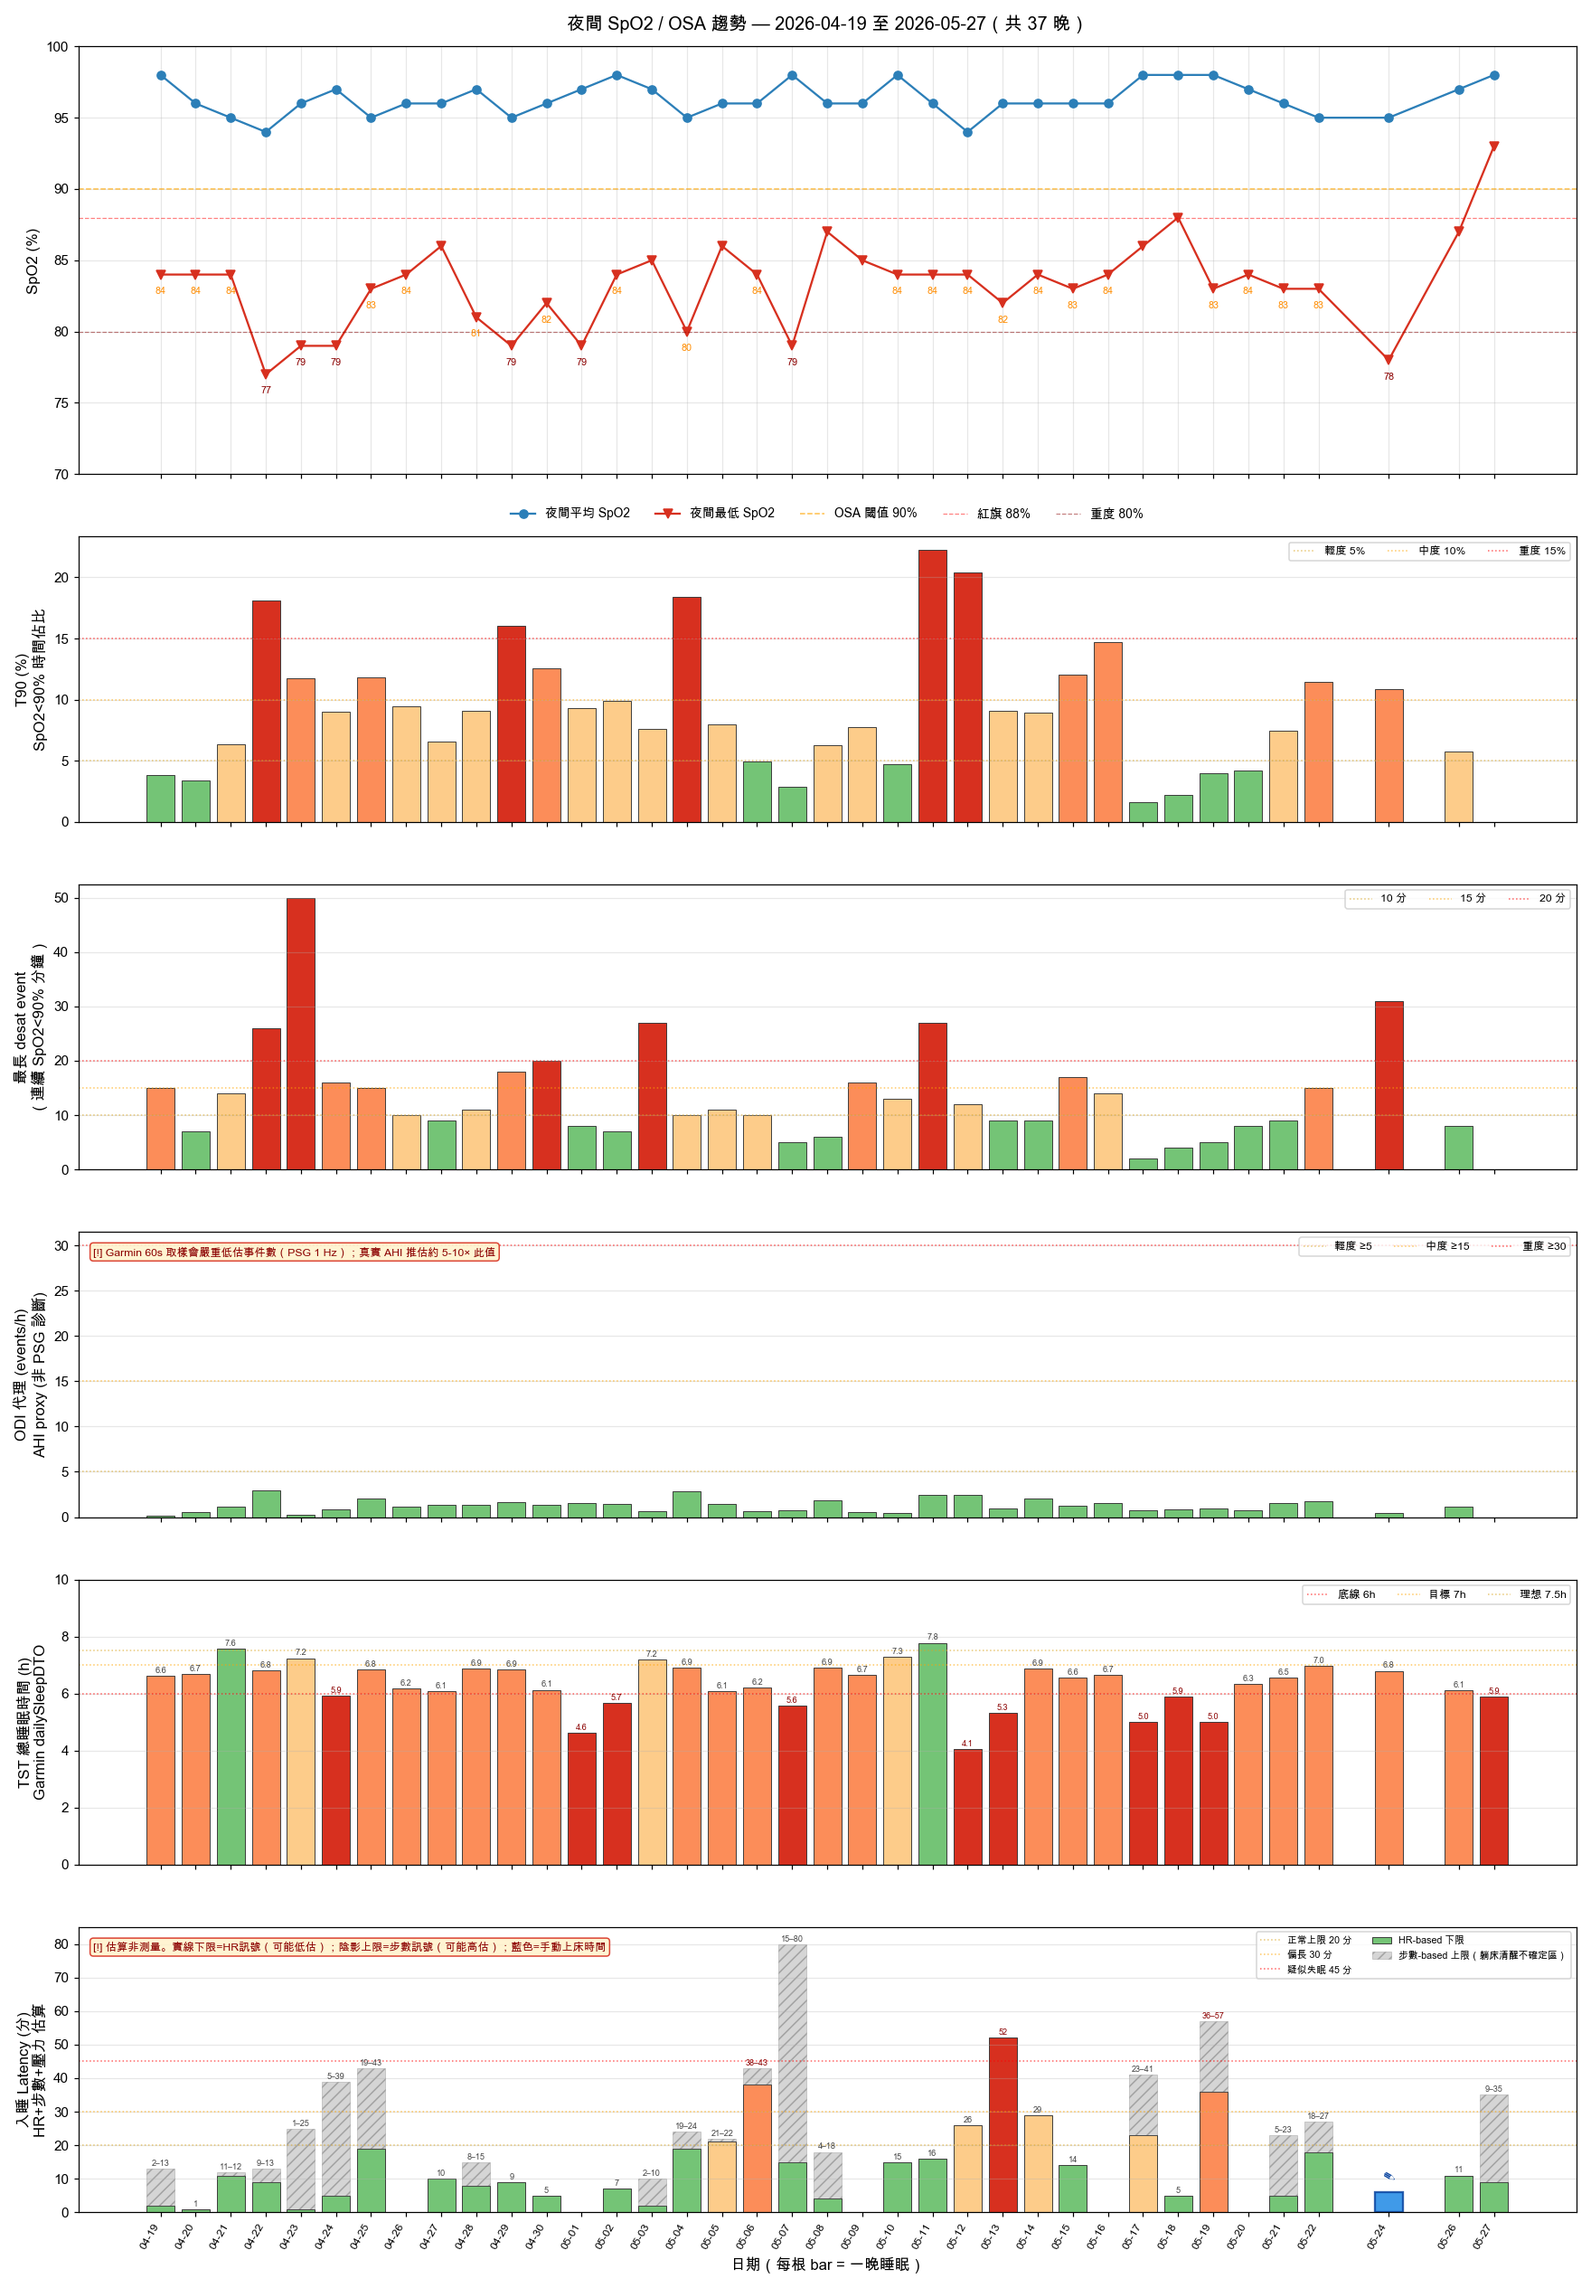
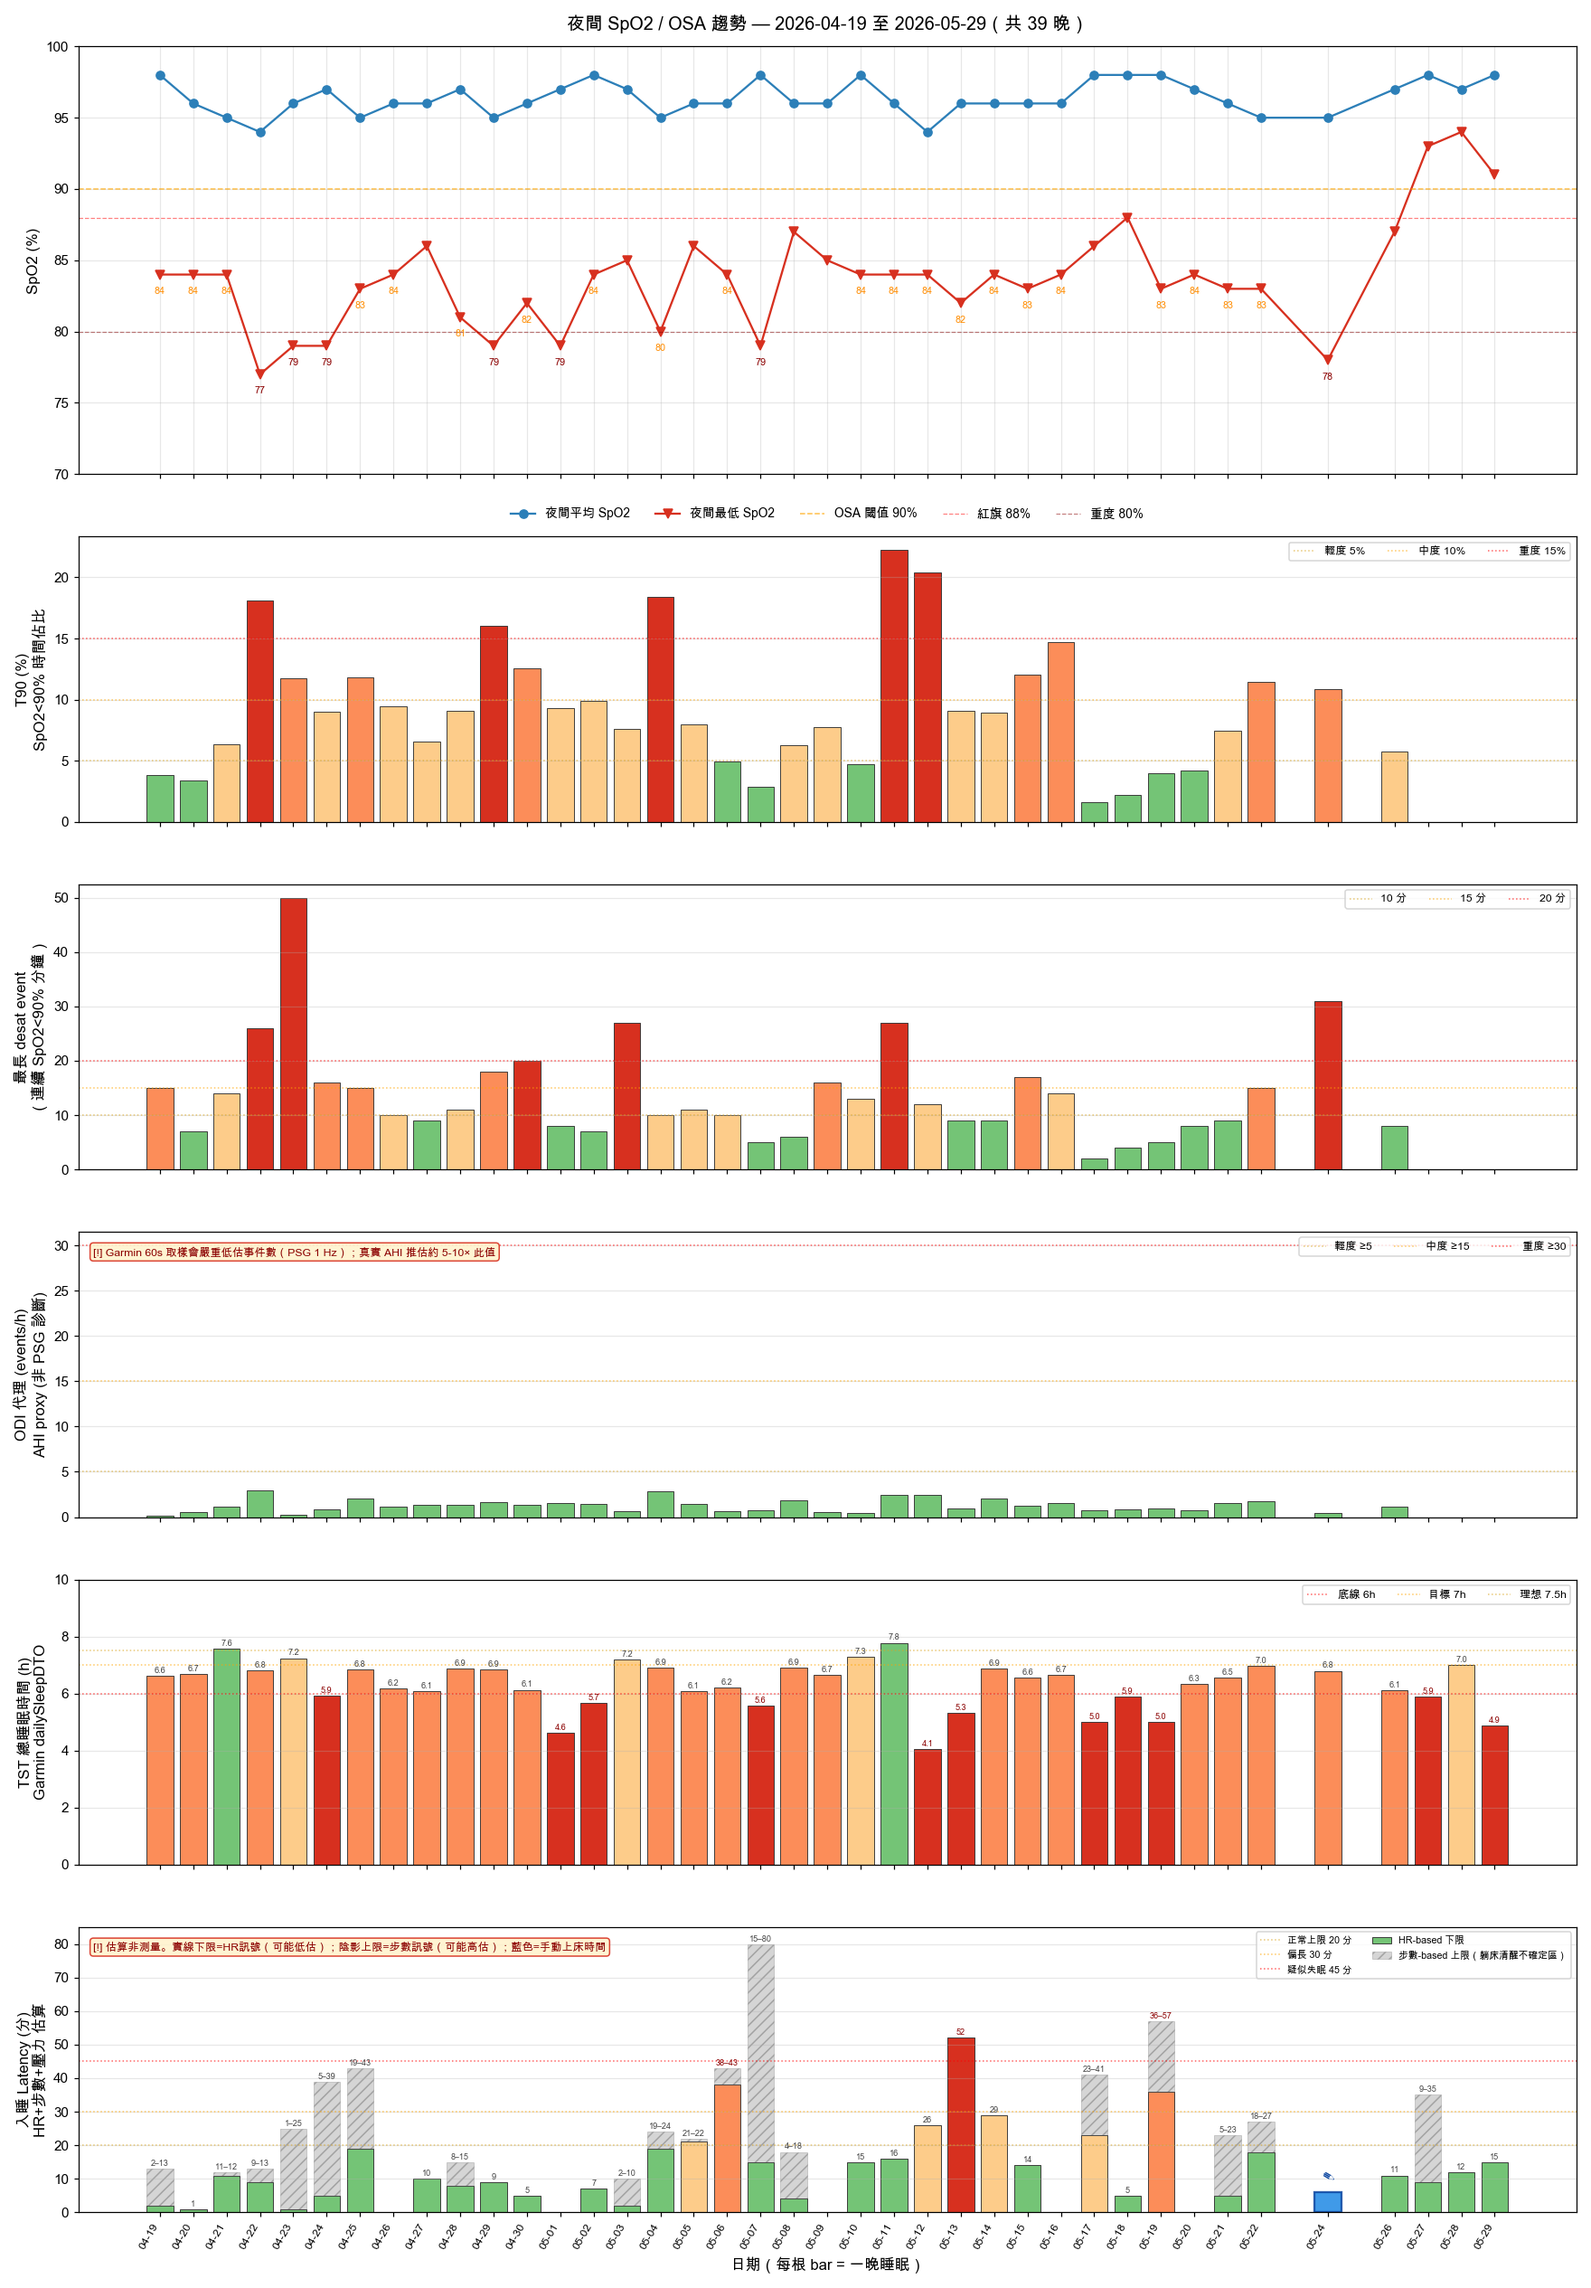
daily 2026-05-29：體重 66.8/18.8%/9.0，睡眠 4h53m Score66，SpO2 警報解除
- daily review + W22 weekly 更新（體重/睡眠/身體信號/運動）
- SpO2 圖表（desat/trend/heatmap/hypnogram7）：近 3 晚 nadir 93/92/91，T90 全 0
- dashboard + data.js 同步

diff --git a/data.js b/data.js
@@ -14,8 +14,8 @@ window.HC_DATA = {
     lede:    { en: "Sleep, BP, lipids, uric acid — one shared metabolic root. Lifestyle stacks first; medication only after lifestyle plateaus.",
                zh: "睡眠、血壓、血脂、尿酸——共享同一個代謝根源。生活方式介入優先，等到效果平台期再考慮藥物。" },
     progressLbl: { en: "Weight progress · 70 → 65 kg", zh: "體重進度 · 70 → 65 公斤" },
-    progressMeta: { en: "Day 72 · 67.3 kg · Sat official (5/23)", zh: "第 72 天 · 67.3 公斤 · 週六正式（5/23）" },
-    startDate: { en: "Start date · Mar 17, 2026 · Last sync 5/27", zh: "起始日期 · 2026 年 3 月 17 日 · 最後同步 5/27" },
+    progressMeta: { en: "Day 74 · 67.3 kg · Sat official (5/23)", zh: "第 74 天 · 67.3 公斤 · 週六正式（5/23）" },
+    startDate: { en: "Start date · Mar 17, 2026 · Last sync 5/29", zh: "起始日期 · 2026 年 3 月 17 日 · 最後同步 5/29" },
     startWeight: 70,
     targetWeight: 65,
     currentWeight: 67.3,
@@ -50,7 +50,7 @@ window.HC_DATA = {
     },
     {
       sys: "sleep", name: { en: "Sleep Score", zh: "睡眠分數" },
-      val: "75", unit: "Garmin",
+      val: "66", unit: "Garmin",
       delta: { en: "5/4 · OSA flag: T90 18.4% (severe)", zh: "5/4 · OSA 紅旗：T90 18.4%（重度）" },
       cadence: { en: "Daily · Garmin", zh: "每日 · Garmin" },
       status: "warn",
@@ -921,14 +921,14 @@ window.HC_DATA = {
   tracker: {
     // [SBP, DBP] — gaps filled with prior reading
     bp: [
-      [114,66], [125,70], [122,69], [115,68], [119,76], [119,76], [113,69], [113,69], [113,69], [123,72], [113,72], [116,66], [112,70], [117,66],
+      [125,70], [122,69], [115,68], [119,76], [119,76], [113,69], [113,69], [113,69], [123,72], [113,72], [116,66], [112,70], [117,66], [117,66],
     ],
     // daily weight (kg)
-    weight: [68.3, 67.9, 67.3, 67.6, 68.7, 68.6, 68.3, 68, 67.6, 67.3, 67.3, 68, 68.2, 67.6],
+    weight: [67.9, 67.3, 67.6, 68.7, 68.6, 68.3, 68, 67.6, 67.3, 67.3, 68, 68.2, 67.6, 66.8],
     // Garmin Sleep Score
-    sleep:  [67, 67, 74, 74, 65, 64, 65, 74, 80, 49, 80, 65, 70, 75],
+    sleep:  [67, 74, 74, 65, 64, 65, 74, 80, 49, 80, 65, 70, 75, 66],
     // Body Battery waking
-    bb:     [42, 34, 51, 63, 48, 62, 54, 61, 56, 34, 59, 55, 53, 64],
+    bb:     [34, 51, 63, 48, 62, 54, 61, 56, 34, 59, 55, 53, 64, 55],
     // SpO2 nightly nadir % (last 14 days, parallel to bp/weight/sleep/bb).
     // Earlier nights null until sync_data_js.py backfills; banner only uses trailing values.
     spo2Nadir: [null, null, null, null, null, 84, 79, 87, 85, 84, 84, 86, 82, 84],

diff --git a/reviews/daily/2026-05-29.md b/reviews/daily/2026-05-29.md
@@ -1,0 +1,86 @@
+# 晨間健康紀錄 — 2026-05-29
+
+*3 分鐘。起床後立即完成。記錄，不分析。*
+
+---
+
+## 體重 / 體組成
+
+**今日：66.8 kg**
+**體脂率：18.8 %**
+**內臟脂肪等級：9.0**
+**腰圍 (WHO midpoint)：— cm**
+**腰圍 (最大腹圍)：— cm**
+
+*每週六早晨為正式體重紀錄（排尿後、進食前；連 5 個工作日後、週末大餐前的真實低點）。其他日可選填。*
+
+---
+
+## 血壓（晨間）
+
+*今日未量測。*
+
+| 次數 | 收縮壓 | 舒張壓 | 心率 |
+|------|--------|--------|------|
+| 第一次 | | | |
+| 第二次 | | | |
+
+---
+
+## 睡眠狀態
+
+**Garmin 偵測入睡：** 23:56
+**實際起床：** 05:25
+**中途醒來：** 無
+**Garmin Sleep Score：** 66 / 100
+**Garmin Body Battery 起床值：** 55
+**主觀恢復感：** 3 / 5
+**總時長：** 4h 53m（深眠 73m｜REM 44m）
+
+### SpO2 夜間最低（7 晚趨勢）
+
+| 日期 | -6 | -5 | -4 | -3 | -2 | -1 | 今晨 |
+|------|----|----|----|----|----|----|------|
+| 日期 | 05-23 | 05-24 | 05-25 | 05-26 | 05-27 | 05-28 | 05-29 |
+| 最低 % | 81 | 78 | 89 | 87 | 93 | 92 | 91 |
+
+**今晨日均 SpO2：** 97%
+**< 88% 連續晚數：** 0（OSA 紅旗門檻：連 3 晚 < 88% → 強烈建議 PSG）
+
+**SpO2 全夜圖（含 hypnogram 條帶）：** [spo2/spo2_desat_2026-05-29.png](spo2/spo2_desat_2026-05-29.png)
+**SpO2 趨勢圖：** [spo2/spo2_desat_trend.png](spo2/spo2_desat_trend.png)
+**SpO2 全夜 Heatmap（Venu 4 cohort）：** [spo2/spo2_heatmap_all_nights.png](spo2/spo2_heatmap_all_nights.png)
+**SpO2 × 睡眠分期 7 晚疊圖：** [spo2/spo2_hypnogram_7night_2026-05-29.png](spo2/spo2_hypnogram_7night_2026-05-29.png)
+
+*Sleep Score < 65 或 Body Battery < 50 連續三天 → 重新檢視睡眠修復方案。*
+
+---
+
+## 昨日回顧
+
+**實際飲水量：** 1.50 L（目標 ≥ 2.5L）
+**昨日活動消耗：** 149 kcal（主動 + BMR）
+**昨日步數：** 12,150
+
+---
+
+## 身體信號
+
+| 部位 | 性質 | 強度 (0-10) |
+|------|------|-------------|
+| 清 | — | — |
+
+---
+
+## 今日計畫速記
+
+- [ ] 飲水目標：2.5 L（錨點 09:30 ≥1.0L / 13:30 ≥2.0L / 17:00 截止 2.5L）
+- [ ] 補充品（核心 v2）：D3+K2+L-Citrulline+益生菌（早）；Psyllium ×2（午晚餐前）；魚油 ×4（晚餐後）；鎂+酸櫻桃+Glycine（睡前）；洛神花 ×2
+- [ ] 運動（17:00）：走路 Zone 2
+- [ ] 活動度/伸展（09:30 + 20:30）
+- [ ] Wind-down（20:00 燈光降 + 螢幕濾鏡，液體截止）
+- [ ] 上床 21:30 / 熄燈 22:00（TST 目標 7h+）
+
+---
+
+*Filed: reviews/daily/2026-05-29.md*

diff --git a/reviews/weekly/2026-W22.md b/reviews/weekly/2026-W22.md
@@ -31,9 +31,9 @@
 
 |  | 一 | 二 | 三 | 四 | 五 | 六 | 日 |
 |--|----|----|----|----|----|----|-----|
-| 體重 (kg) | 68.0 | 68.2 | 67.6 | | | | |
-| 體脂率 (%) | 19.4 | 19.4 | 19.4 | | | | |
-| 內臟脂肪 | 9.5 | 9.5 | 9.0 | | | | |
+| 體重 (kg) | 68.0 | 68.2 | 67.6 | | 66.8 | | |
+| 體脂率 (%) | 19.4 | 19.4 | 19.4 | | 18.8 | | |
+| 內臟脂肪 | 9.5 | 9.5 | 9.0 | | 9.0 | | |
 | **腰圍 WHO (cm)** | | | | | | | |
 | **腰圍 max (cm)** | | | | | | | |
 
@@ -72,8 +72,8 @@
 | 05-25 (一) | 21:43 | 05:13 | 無 | 65 | 55 | 3 |
 | 05-26 (二) | 21:40 | 04:19 | 2次+ | 70 | 53 | 3 |
 | 05-27 (三) | 21:35 | 03:52 | 1次 | 75 | 64 | 3 |
-| 05-28 (四) | | | | | | |
-| 05-29 (五) | | | | | | |
+| 05-28 (四) | 21:27 | 05:13 | 無 | 76 | 59 | — |
+| 05-29 (五) | 23:56 | 05:25 | 無 | 66 | 55 | 3 |
 | 05-30 (六) | | | | | | |
 | 05-31 (日) | | | | | | |
 
@@ -100,7 +100,7 @@
 
 | 信號（部位+性質） | 出現天數 | 平均強度 | 趨勢（↑↓→） | 備註 |
 |-------------------|----------|----------|-------------|------|
-| 清 | 3 | — | → | 05-25、05-26、05-27 無不適 |
+| 清 | 4 | — | → | 05-25、05-26、05-27、05-29 無不適 |
 
 **反覆出現（≥ 3 天）：** 無
 
@@ -126,6 +126,7 @@
 | 05-25 (一) | 重訓 |
 | 05-26 (二) | 有氧 |
 | 05-27 (三) | 步行/散步 |
+| 05-29 (五) | 走路 Zone 2 |
 
 ---
 
@@ -147,6 +148,7 @@
 | 警報 | 應對措施 | 效果 |
 |------|----------|------|
 | SpO2 連 6 晚 < 88%（05-24 低至 78%） | 強烈建議安排 PSG 多項睡眠檢查 | 待安排 |
+| SpO2 警報解除（05-27~29 nadir 93/92/91，T90 全 0） | 持續監測；PSG 仍建議作為基線確認 | 改善中 ✅ |
 
 ---
 

diff --git a/reports/daily-garmin/2026-05-28.md b/reports/daily-garmin/2026-05-28.md
@@ -1,0 +1,36 @@
+# Garmin 每日摘要 — 2026-05-28
+
+## 睡眠
+- 就寢：21:27｜起床：05:13
+- 總時長：7h 1m
+- 深眠：110 分｜REM：79 分
+- Sleep Score：76
+- Body Battery 起床值：59
+- 估算上床：21:15｜入睡 latency：12 分
+
+## 靜息心率
+- RHR：58.0 bpm
+
+## 壓力
+- 日均：28
+
+## 步數
+- 總計：12,150
+
+## SpO2
+- 日均：97.0%
+- 最低：92%
+
+## 活動
+| 時段 | 類型 | 距離 | 時長 | 平均 HR | 最大 HR | 主動 kcal | 含 BMR |
+|------|------|------|------|---------|---------|-----------|--------|
+| 08:59 | cycling | 1.03 km | 4.9 min | 140 | 150 | 45 | 51 |
+| 12:39 | walking | 1.32 km | 14.3 min | 125 | 147 | 79 | 98 |
+| **小計** | 2 段 | **2.35 km** | **19.2 min** | — | — | **124** | **149** |
+
+## 飲水
+- 實際：1.50 L
+- 目標：2.00 L
+- 運動流汗耗水：0.32 L
+
+_Source: data/garmin/2026-05-28.json (gitignored)_

diff --git a/reports/daily-garmin/2026-05-29.md b/reports/daily-garmin/2026-05-29.md
@@ -1,0 +1,33 @@
+# Garmin 每日摘要 — 2026-05-29
+
+## 睡眠
+- 就寢：23:56｜起床：05:25
+- 總時長：4h 53m
+- 深眠：73 分｜REM：44 分
+- Sleep Score：66
+- Body Battery 起床值：55
+
+## 靜息心率
+- RHR：60.0 bpm
+
+## 壓力
+- 日均：29
+
+## 步數
+- 總計：2,088
+
+## SpO2
+- 日均：97.0%
+- 最低：91%
+
+## 活動
+| 時段 | 類型 | 距離 | 時長 | 平均 HR | 最大 HR | 主動 kcal | 含 BMR |
+|------|------|------|------|---------|---------|-----------|--------|
+| 09:11 | cycling | 1.19 km | 8.9 min | 135 | 156 | 75 | 87 |
+
+## 飲水
+- 實際：0.75 L
+- 目標：2.13 L
+- 運動流汗耗水：0.13 L
+
+_Source: data/garmin/2026-05-29.json (gitignored)_
